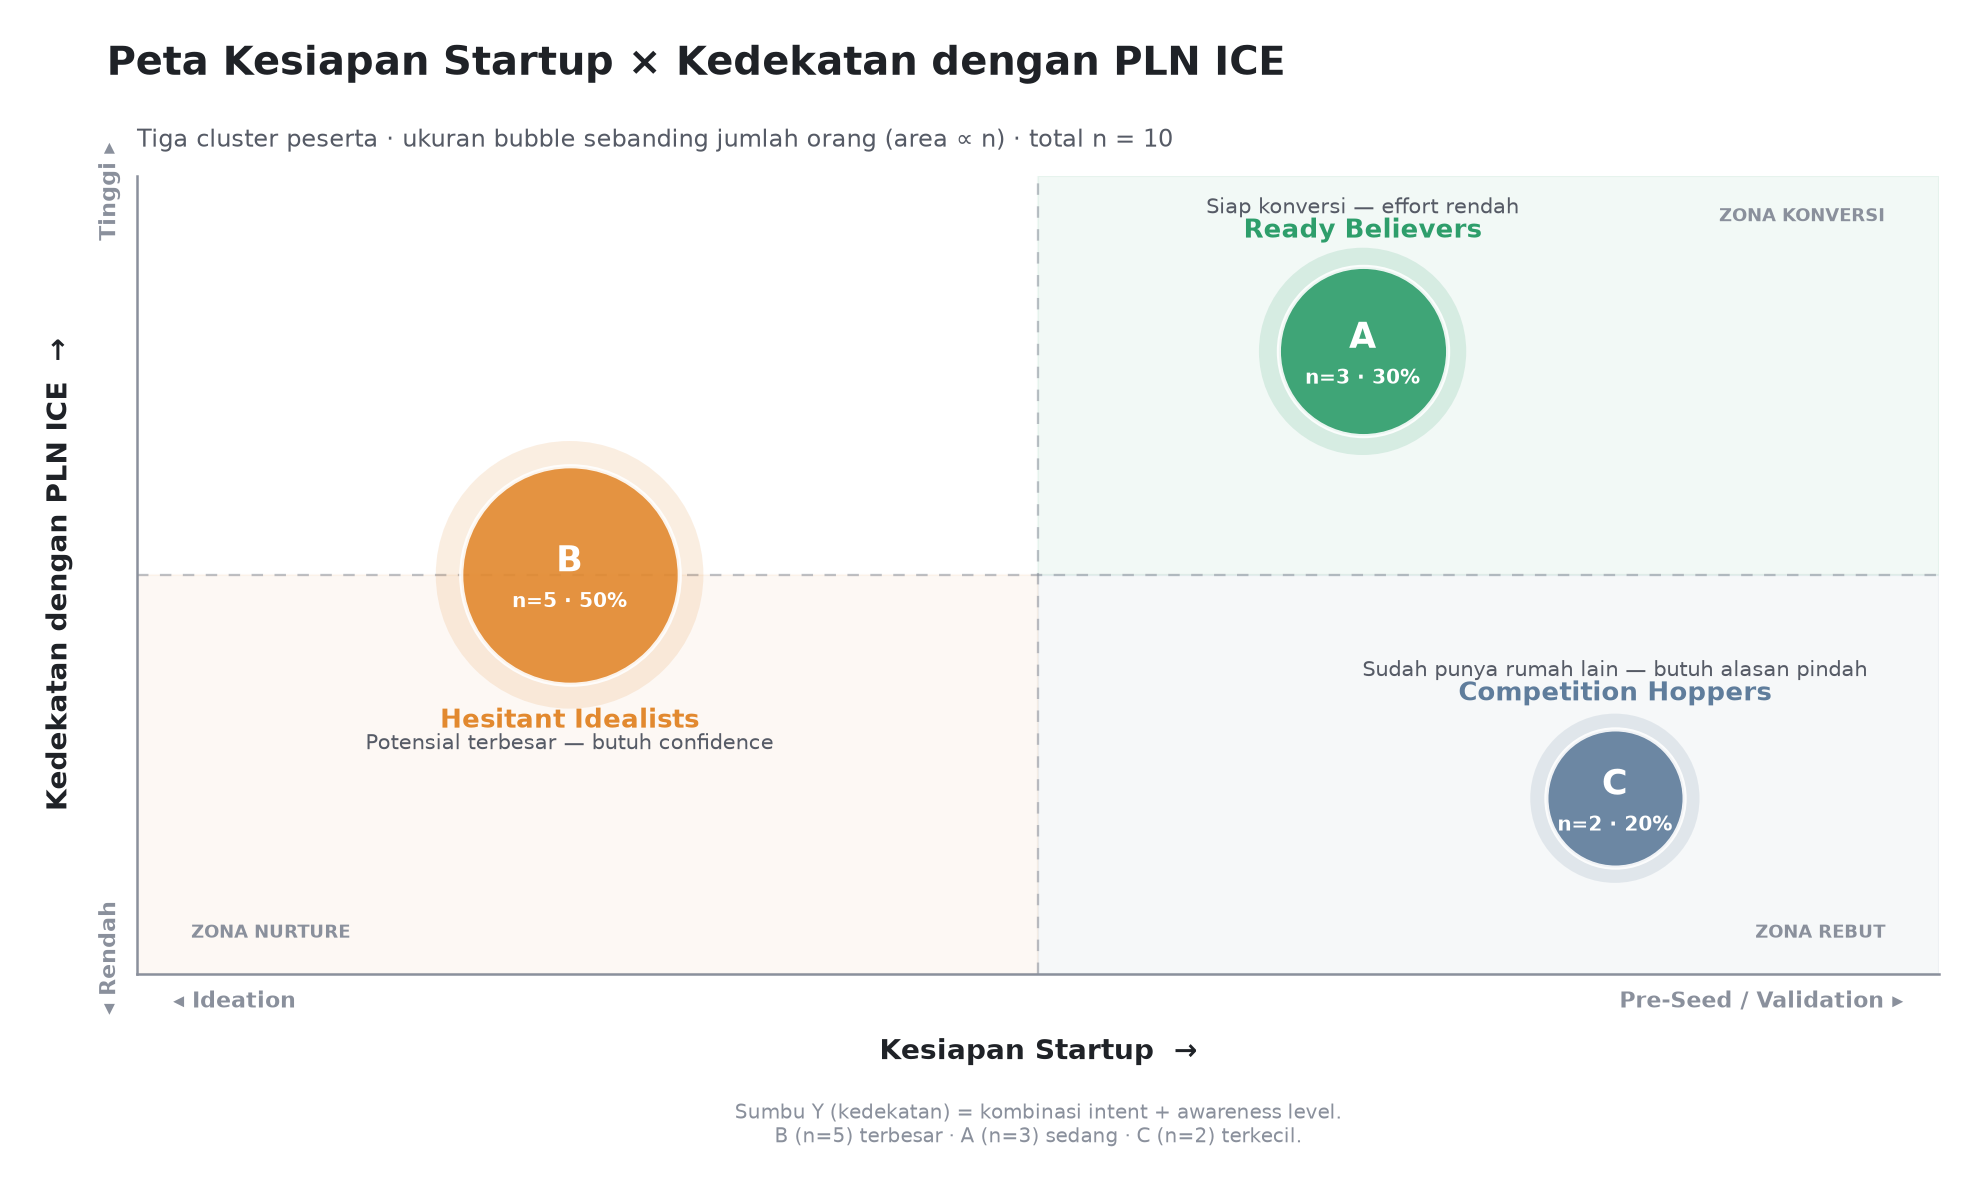
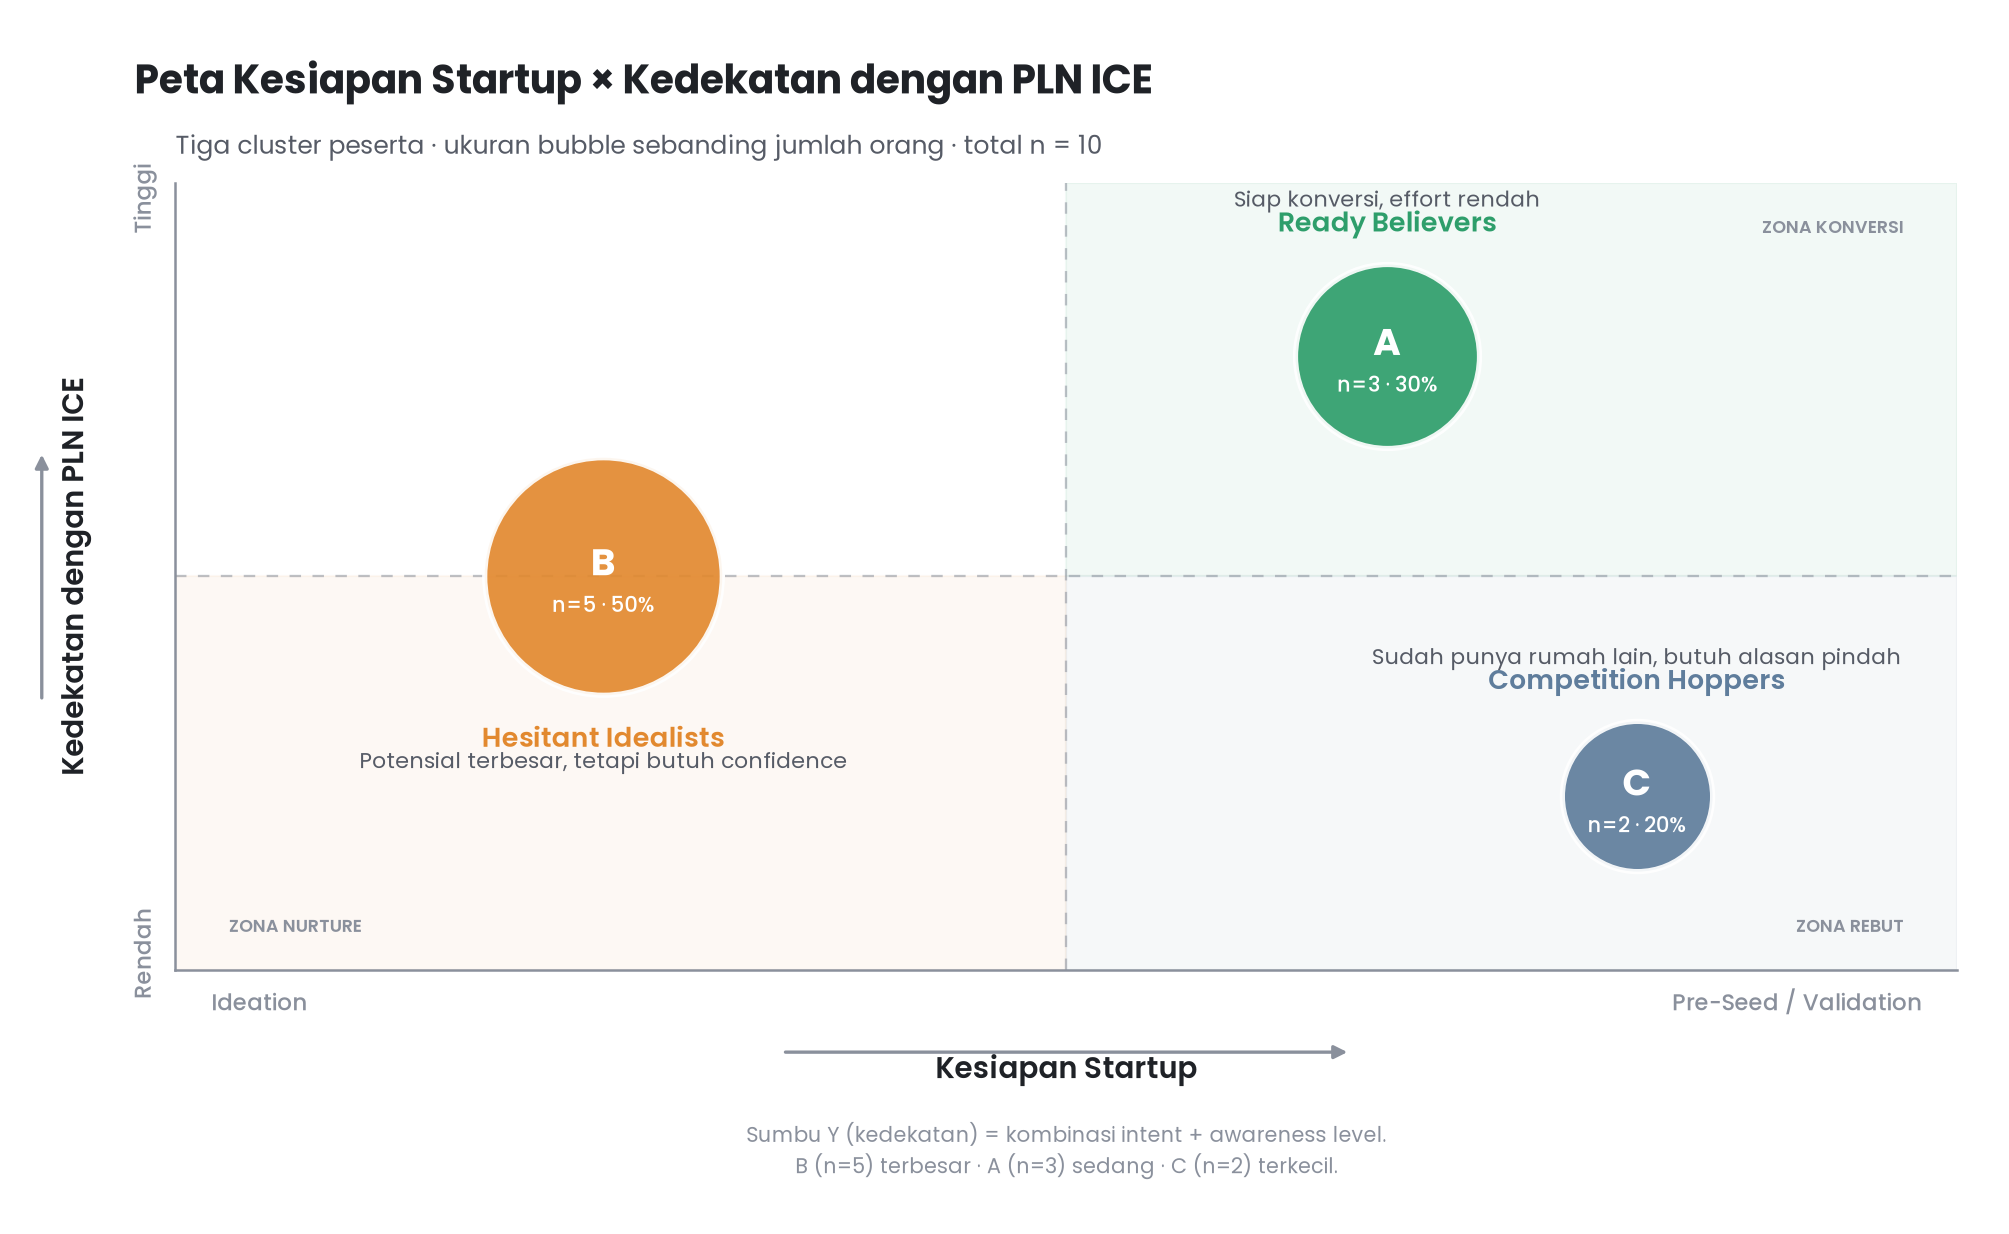
Revise quadrant map: solid bubbles, Poppins font, no em-dash labels
- Remove the light halo ring around each bubble (single solid bubble).
- Use Poppins for all text, bundled under docs/fonts/ and loaded per
  weight via FontProperties (Poppins uses per-weight family names).
- Rewrite segment captions without long dashes, e.g.
  "Potensial terbesar, tetapi butuh confidence".
- Replace unicode axis arrows (not in Poppins) with drawn arrow shapes.

Claude-Session: https://claude.ai/code/session_01XvVBB18ZBfcgHnnqKeqgTx

diff --git a/docs/startup_readiness_quadrant.py b/docs/startup_readiness_quadrant.py
@@ -1,9 +1,9 @@
 """
-Peta Kesiapan Startup x Kedekatan PLN ICE — quadrant map (landscape).
+Peta Kesiapan Startup x Kedekatan PLN ICE — quadrant map (landscape, Poppins).
 
 Sumbu X : Kesiapan Startup  (kiri: Ideation -> kanan: Pre-Seed/Validation)
 Sumbu Y : Kedekatan PLN ICE (bawah: rendah -> atas: tinggi; intent + awareness)
-Bubble  : tiga cluster, luas area sebanding jumlah orang (area proporsional n).
+Bubble  : tiga cluster, luas bubble sebanding jumlah orang (luas sebanding n).
 
 Run:
     python3 docs/startup_readiness_quadrant.py
@@ -11,40 +11,59 @@ Output:
     docs/startup_readiness_quadrant.png
 """
 
+import os
 import matplotlib
 matplotlib.use("Agg")
 import matplotlib.pyplot as plt
-from matplotlib.patches import FancyBboxPatch
+from matplotlib.font_manager import FontProperties
 
 # ----------------------------------------------------------------------
-# Palette (kalibrasi kontras terang; label teks pakai tinta, bukan warna seri)
+# Font: Poppins (di-bundle di docs/fonts/) untuk SEMUA teks.
+# Poppins memakai penamaan lama (tiap bobot = family sendiri), jadi kita
+# rujuk langsung per file lewat FontProperties agar semua bobot tepat.
+# ----------------------------------------------------------------------
+HERE = os.path.dirname(os.path.abspath(__file__))
+FONT_DIR = os.path.join(HERE, "fonts")
+_WEIGHT_FILE = {
+    400: "Poppins-Regular.ttf",
+    500: "Poppins-Medium.ttf",
+    600: "Poppins-SemiBold.ttf",
+    700: "Poppins-Bold.ttf",
+}
+
+def pp(size, weight=400):
+    """FontProperties Poppins pada ukuran & bobot tertentu."""
+    return FontProperties(fname=os.path.join(FONT_DIR, _WEIGHT_FILE[weight]),
+                          size=size)
+
+plt.rcParams["axes.unicode_minus"] = False
+
+# ----------------------------------------------------------------------
+# Palette
 # ----------------------------------------------------------------------
 INK      = "#1f2227"
 INK_SOFT = "#565b66"
 MUTED    = "#8a909c"
 BG       = "#ffffff"
-PANEL    = "#faf8f4"
-GRID     = "#e3dfd8"
 
 A_CLR = "#2e9e6b"   # Ready Believers      - hijau
 B_CLR = "#e2892f"   # Hesitant Idealists   - oranye
 C_CLR = "#5f7d9c"   # Competition Hoppers  - slate blue
 
 # ----------------------------------------------------------------------
-# Data segmen: (x, y) pada skala 0-100, jumlah orang, warna, dst.
+# Data segmen (x, y skala 0-100; luas bubble sebanding jumlah orang)
+# lab_dir: +1 = label di atas bubble, -1 = di bawah bubble
 # ----------------------------------------------------------------------
 segments = [
-    # lab_dir: +1 = label di atas bubble, -1 = di bawah bubble
-    dict(key="A", name="Ready Believers",     n=3, pct=30, x=68, y=78,
-         color=A_CLR, label="Siap konversi — effort rendah",       lab_dir=+1),
-    dict(key="B", name="Hesitant Idealists",   n=5, pct=50, x=24, y=50,
-         color=B_CLR, label="Potensial terbesar — butuh confidence", lab_dir=-1),
-    dict(key="C", name="Competition Hoppers",  n=2, pct=20, x=82, y=22,
-         color=C_CLR, label="Sudah punya rumah lain — butuh alasan pindah", lab_dir=+1),
+    dict(key="A", name="Ready Believers",    n=3, pct=30, x=68, y=78,
+         color=A_CLR, label="Siap konversi, effort rendah",           lab_dir=+1),
+    dict(key="B", name="Hesitant Idealists",  n=5, pct=50, x=24, y=50,
+         color=B_CLR, label="Potensial terbesar, tetapi butuh confidence", lab_dir=-1),
+    dict(key="C", name="Competition Hoppers", n=2, pct=20, x=82, y=22,
+         color=C_CLR, label="Sudah punya rumah lain, butuh alasan pindah", lab_dir=+1),
 ]
 
-# luas bubble (points^2) sebanding jumlah orang  ->  area ~ n
-AREA_PER_PERSON = 2200.0
+AREA_PER_PERSON = 2600.0   # luas (points^2) per orang -> luas bubble sebanding n
 
 # ----------------------------------------------------------------------
 # Figure — landscape
@@ -52,90 +71,87 @@ AREA_PER_PERSON = 2200.0
 fig, ax = plt.subplots(figsize=(13.5, 7.6), dpi=150)
 fig.patch.set_facecolor(BG)
 ax.set_facecolor(BG)
-
 ax.set_xlim(0, 100)
 ax.set_ylim(0, 100)
 
 # --- tint kuadran (halus) ---
-ax.axhspan(50, 100, xmin=0.5, xmax=1.0, color=A_CLR, alpha=0.06, zorder=0)  # kanan-atas: konversi
-ax.axhspan(0, 50,  xmin=0.0, xmax=0.5, color=B_CLR, alpha=0.05, zorder=0)   # kiri-bawah: nurture
-ax.axhspan(0, 50,  xmin=0.5, xmax=1.0, color=C_CLR, alpha=0.05, zorder=0)   # kanan-bawah: rebut
+ax.axhspan(50, 100, xmin=0.5, xmax=1.0, color=A_CLR, alpha=0.06, zorder=0)
+ax.axhspan(0, 50,  xmin=0.0, xmax=0.5, color=B_CLR, alpha=0.05, zorder=0)
+ax.axhspan(0, 50,  xmin=0.5, xmax=1.0, color=C_CLR, alpha=0.05, zorder=0)
 
-# --- garis tengah kuadran (putus-putus, tipis, tidak dominan) ---
+# --- garis tengah kuadran (putus-putus, tipis) ---
 ax.axvline(50, color=MUTED, lw=1.1, ls=(0, (5, 5)), alpha=0.55, zorder=1)
 ax.axhline(50, color=MUTED, lw=1.1, ls=(0, (5, 5)), alpha=0.55, zorder=1)
 
-# --- catatan zona kuadran (pojok, kecil, tidak menutup bubble) ---
-ax.text(97, 96, "ZONA KONVERSI", ha="right", va="top", fontsize=8.5,
-        color=MUTED, fontweight="bold", zorder=2)
-ax.text(3, 4, "ZONA NURTURE", ha="left", va="bottom", fontsize=8.5,
-        color=MUTED, fontweight="bold", zorder=2)
-ax.text(97, 4, "ZONA REBUT", ha="right", va="bottom", fontsize=8.5,
-        color=MUTED, fontweight="bold", zorder=2)
+# --- catatan zona kuadran (pojok) ---
+ax.text(97, 96, "ZONA KONVERSI", ha="right", va="top", color=MUTED,
+        fontproperties=pp(8.5, 600), zorder=2)
+ax.text(3, 4, "ZONA NURTURE", ha="left", va="bottom", color=MUTED,
+        fontproperties=pp(8.5, 600), zorder=2)
+ax.text(97, 4, "ZONA REBUT", ha="right", va="bottom", color=MUTED,
+        fontproperties=pp(8.5, 600), zorder=2)
 
 # ----------------------------------------------------------------------
-# Bubble + label
+# Bubble + label (tanpa halo/lingkaran muda di luar bubble)
 # ----------------------------------------------------------------------
-# perlu render sekali agar transform data<->display akurat untuk hitung radius
-fig.canvas.draw()
+fig.canvas.draw()   # agar transform data<->display akurat
 
 def radius_data_units(area_pts2):
-    """radius bubble (points^2 area) dikonversi ke satuan-data sumbu-y."""
     r_pts = (area_pts2 / 3.14159) ** 0.5
     r_px = r_pts * fig.dpi / 72.0
-    # tinggi 1 unit-data pada sumbu-y, dalam piksel
     y0 = ax.transData.transform((0, 0))[1]
     y1 = ax.transData.transform((0, 1))[1]
-    px_per_unit = abs(y1 - y0)
-    return r_px / px_per_unit
+    return r_px / abs(y1 - y0)
 
 for s in segments:
     area = s["n"] * AREA_PER_PERSON
-    # halo lembut
-    ax.scatter(s["x"], s["y"], s=area * 1.5, color=s["color"], alpha=0.14,
-               edgecolors="none", zorder=3)
-    # bubble utama
-    ax.scatter(s["x"], s["y"], s=area, color=s["color"], alpha=0.9,
-               edgecolors="white", linewidths=2, zorder=4)
+    # bubble tunggal — solid, tanpa halo
+    ax.scatter(s["x"], s["y"], s=area, color=s["color"], alpha=0.92,
+               edgecolors="white", linewidths=2.5, zorder=4)
 
     # huruf + n di dalam bubble
-    ax.text(s["x"], s["y"] + 1.6, s["key"], ha="center", va="center",
-            fontsize=17, fontweight="bold", color="white", zorder=5)
-    ax.text(s["x"], s["y"] - 3.4, f"n={s['n']} · {s['pct']}%", ha="center",
-            va="center", fontsize=9.5, color="white", fontweight="bold", zorder=5)
+    ax.text(s["x"], s["y"] + 1.8, s["key"], ha="center", va="center",
+            color="white", fontproperties=pp(18, 700), zorder=5)
+    ax.text(s["x"], s["y"] - 3.6, f"n={s['n']} · {s['pct']}%", ha="center",
+            va="center", color="white", fontproperties=pp(10, 500), zorder=5)
 
-    # label DITEMPATKAN di luar tepi bubble (radius + gap) -> tak pernah tabrakan
+    # label di luar tepi bubble (radius + gap) -> tak pernah tabrakan
     r = radius_data_units(area)
-    gap = 2.6
     d = s["lab_dir"]
-    name_y = s["y"] + d * (r + gap)              # nama: tepat di luar tepi bubble
-    sub_y  = s["y"] + d * (r + gap + 3.2)        # deskripsi: lebih jauh lagi
+    name_y = s["y"] + d * (r + 2.8)
+    sub_y  = s["y"] + d * (r + 6.2)
     va = "bottom" if d > 0 else "top"
-    ax.text(s["x"], name_y, s["name"], ha="center", va=va, fontsize=12.5,
-            fontweight="bold", color=s["color"], zorder=5)
-    ax.text(s["x"], sub_y, s["label"], ha="center", va=va, fontsize=10,
-            color=INK_SOFT, zorder=5)
+    ax.text(s["x"], name_y, s["name"], ha="center", va=va, color=s["color"],
+            fontproperties=pp(13, 600), zorder=5)
+    ax.text(s["x"], sub_y, s["label"], ha="center", va=va, color=INK_SOFT,
+            fontproperties=pp(10.5, 400), zorder=5)
 
 # ----------------------------------------------------------------------
-# Sumbu — label & arah (tanpa strip panjang, teks ringkas di ujung)
+# Sumbu — label & penanda ujung (tanpa strip/panah karakter)
 # ----------------------------------------------------------------------
-ax.set_xlabel("Kesiapan Startup  →", fontsize=13.5, fontweight="bold",
-              color=INK, labelpad=12)
-ax.set_ylabel("Kedekatan dengan PLN ICE  →", fontsize=13.5, fontweight="bold",
-              color=INK, labelpad=12)
+ax.set_xlabel("Kesiapan Startup", color=INK, labelpad=14,
+              fontproperties=pp(14, 600))
+ax.set_ylabel("Kedekatan dengan PLN ICE", color=INK, labelpad=16,
+              fontproperties=pp(14, 600))
 
-# ticks jadi penanda ujung (bukan skala numerik)
 ax.set_xticks([2, 98])
-ax.set_xticklabels(["◂ Ideation", "Pre-Seed / Validation ▸"], fontsize=10.5,
-                   color=MUTED, fontweight="bold")
+ax.set_xticklabels(["Ideation", "Pre-Seed / Validation"], color=MUTED)
 ax.set_yticks([2, 98])
-ax.set_yticklabels(["◂ Rendah", "Tinggi ▸"], fontsize=10.5, color=MUTED,
-                   fontweight="bold", rotation=90, va="center")
+ax.set_yticklabels(["Rendah", "Tinggi"], color=MUTED, rotation=90, va="center")
 ax.tick_params(length=0, pad=8)
 for xt in ax.get_xticklabels():
+    xt.set_fontproperties(pp(11, 500))
     xt.set_ha("left" if "Ideation" in xt.get_text() else "right")
+for yt in ax.get_yticklabels():
+    yt.set_fontproperties(pp(11, 500))
 
-# frame ringan hanya kiri & bawah
+# panah arah (digambar, bukan karakter) — halus, di luar area plot
+arrow = dict(arrowstyle="-|>", color=MUTED, lw=1.6, mutation_scale=13)
+ax.annotate("", xy=(0.66, -0.105), xytext=(0.34, -0.105),
+            xycoords="axes fraction", arrowprops=arrow)   # X: makin siap
+ax.annotate("", xy=(-0.075, 0.66), xytext=(-0.075, 0.34),
+            xycoords="axes fraction", arrowprops=arrow)   # Y: makin dekat
+
 for side in ("top", "right"):
     ax.spines[side].set_visible(False)
 for side in ("left", "bottom"):
@@ -143,25 +159,22 @@ for side in ("left", "bottom"):
     ax.spines[side].set_linewidth(1.2)
 
 # ----------------------------------------------------------------------
-# Judul
+# Judul & catatan
 # ----------------------------------------------------------------------
 fig.suptitle("Peta Kesiapan Startup × Kedekatan dengan PLN ICE",
-             x=0.06, ha="left", y=0.975, fontsize=19, fontweight="bold",
-             color=INK)
-ax.set_title("Tiga cluster peserta · ukuran bubble sebanding jumlah orang "
-             "(area ∝ n) · total n = 10",
-             loc="left", fontsize=11.5, color=INK_SOFT, pad=14)
+             x=0.065, ha="left", y=0.975, color=INK,
+             fontproperties=pp(19, 700))
+ax.set_title("Tiga cluster peserta · ukuran bubble sebanding jumlah orang · "
+             "total n = 10", loc="left", color=INK_SOFT, pad=14,
+             fontproperties=pp(12, 400))
 
-# ----------------------------------------------------------------------
-# Legenda ukuran bubble (panel kanan-bawah, tak menutup data)
-# ----------------------------------------------------------------------
 note = ("Sumbu Y (kedekatan) = kombinasi intent + awareness level.\n"
         "B (n=5) terbesar · A (n=3) sedang · C (n=2) terkecil.")
-ax.text(0.5, -0.16, note, transform=ax.transAxes, ha="center", va="top",
-        fontsize=9.5, color=MUTED)
+ax.text(0.5, -0.19, note, transform=ax.transAxes, ha="center", va="top",
+        color=MUTED, fontproperties=pp(10, 400))
 
-plt.subplots_adjust(left=0.075, right=0.965, top=0.86, bottom=0.16)
+plt.subplots_adjust(left=0.085, right=0.965, top=0.86, bottom=0.17)
 
-out = "docs/startup_readiness_quadrant.png"
-fig.savefig(out, dpi=150, facecolor=BG, bbox_inches="tight", pad_inches=0.3)
+out = os.path.join(HERE, "startup_readiness_quadrant.png")
+fig.savefig(out, dpi=150, facecolor=BG, bbox_inches="tight", pad_inches=0.35)
 print("saved:", out)
